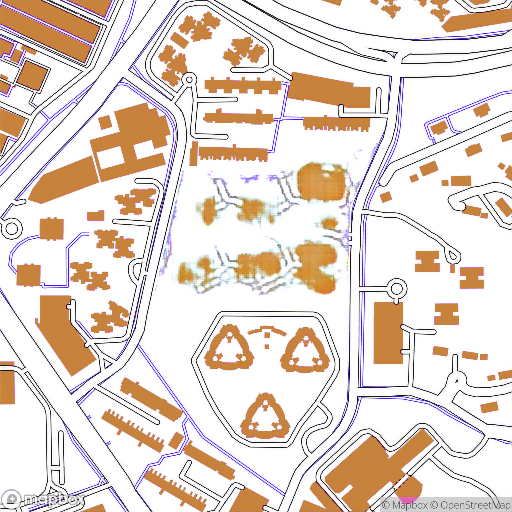
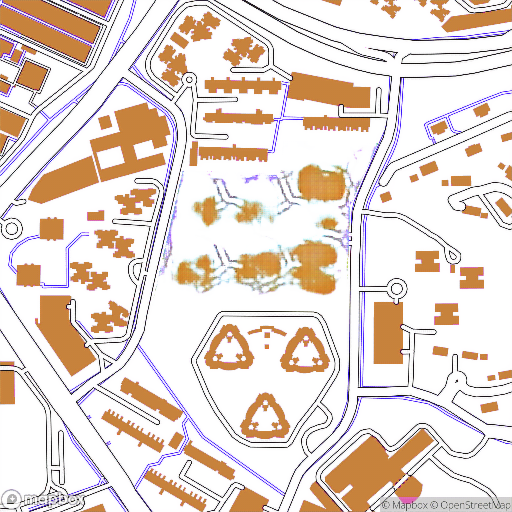
feat:2 images html site

diff --git a/Constraints/templates/index.html b/Constraints/templates/index.html
@@ -14,7 +14,7 @@
 
         h1 {
             color: #2B45A1;
-            padding-top: 130px;
+            padding-top: 30px;
             padding-bottom: 20px;
         }
 
@@ -97,7 +97,7 @@
     <form action="/submit" method="post">
         <div class="parent">
             <div class="child1">
-                <label for="postal_code">Postal code:</label>
+                <label for="postal_code">Postal code/Address:</label>
                 <input type="text" id="postal_code" name="postal_code" required>
             </div>
             <div>or</div>
@@ -129,8 +129,8 @@
     <div class="possible-site-plans">
         <h2>Possible site plans:</h2>
         <!-- Sample site plan images, replace with your own images if necessary -->
-        <img src="site_plan1.jpg" alt="Site Plan Image 1">
-        <img src="site_plan2.jpg" alt="Site Plan Image 2">
+        <img src="{{ url_for('static', filename='raw_rd1.png') }}" alt="Site Plan Image 1">
+        <img src="{{ url_for('static', filename='rec_rd1.png') }}" alt="Site Plan Image 2">
     </div>
     <button onclick="window.print()">Convert to PDF</button>
 

diff --git a/Constraints/get_gen_images.py b/Constraints/get_gen_images.py
@@ -34,23 +34,6 @@ def rd_geojson_maker(geojson, gpr):
     encoded_geojson = requests.utils.quote(geojson_str)
     return encoded_geojson
 
-# def buildings_geojson_maker(geojson):
-#     geojson_feature = {
-#         "type": "Feature",
-#         "properties": {
-#             "fill": "#00FF00",
-#             "fill-opacity": "1.0",
-#             "stroke-width" : 0,
-#         },
-#         "geometry": {
-#             "type": "Polygon",
-#             "coordinates": [geojson]
-#         }
-#     }
-#     geojson_str = json.dumps(geojson_feature)
-#     encoded_geojson = requests.utils.quote(geojson_str)
-#     return encoded_geojson
-
 def og_geojson_maker(geojson):
     geojson_feature = {
         "type": "Feature",
@@ -189,7 +172,7 @@ def create_binary_mask(arr, target_color, threshold=30):
     mask = (arr[:, :, :3] >= lower_bound) & (arr[:, :, :3] <= upper_bound)
     return np.all(mask, axis=-1)
 
-def extract_building_regions(arr, target_color, threshold=10):
+def extract_building_regions(arr, target_color, threshold=30):
     lower_bound = np.array(target_color) - threshold
     upper_bound = np.array(target_color) + threshold
     mask = (arr[:, :, :3] >= lower_bound) & (arr[:, :, :3] <= upper_bound)
@@ -253,47 +236,44 @@ def smooth_contours(contours, alpha=0.02):
     smoothed_contours = [cv2.approxPolyDP(cnt, alpha * cv2.arcLength(cnt, True), True) for cnt in contours]
     return smoothed_contours
 
-
-def extract_raw_buildings(gpr, rgb):
+def extract_raw_buildings(mask_rgb, building_rgb, mask_path, gen_model_path, model_name):
     og_path = "site.png"
-    mask_path = "rd_input.png"
-    gen_rd1_path = 'gen_rd1.png'
+    mask_path = mask_path
+    gen_model_path = gen_model_path
+    model = model_name
 
     og_image = Image.open(og_path).convert('RGB')
     masked_image = Image.open(mask_path).convert('RGB')
-    gen_rd1 = Image.open(gen_rd1_path).convert('RGB')
+    gen_image = Image.open(gen_model_path).convert('RGB')
 
     og_image = og_image.resize((512, 512))
     masked_image = masked_image.resize((512, 512))
 
     og_array = np.array(og_image)
     masked_image_array = np.array(masked_image)
-    gen_rd1_array = np.array(gen_rd1)
+    gen_image_array = np.array(gen_image)
     
     #extract buildings
-    site_mask = create_binary_mask(masked_image_array, rgb)
-    gen_rd1_array[~site_mask] = [255,255,255]
-    rd1_building_mask = extract_building_regions(gen_rd1_array, [255,10,169]) # for rd its always pink buildings
-    Image.fromarray((rd1_building_mask * 255).astype(np.uint8)).save("debug_rd1_building_mask.png")
+    site_mask = create_binary_mask(masked_image_array, mask_rgb)
+    mask_pixels = np.sum(site_mask)
+    gen_image_array[~site_mask] = [255,255,255]
+    gen_building_mask = extract_building_regions(gen_image_array, building_rgb) # for rd its always pink buildings
     # put raw buildings onto og site
     colored_paper = np.full((og_array.shape[0], og_array.shape[1], 3), [230, 228, 224], dtype=np.uint8) #light brown site
-    colored_paper[rd1_building_mask] = [220,217,214] #dark brown buildings
+    colored_paper[gen_building_mask] = [220,217,214] #dark brown buildings
     og_array[site_mask] = colored_paper[site_mask]
-    raw_gen_r1 = Image.fromarray(og_array)
-    raw_gen_r1.save("raw_r1.png")
+    raw_gen = Image.fromarray(og_array)
+    raw_gen.save(f"static\\raw_{model}.png")
 
     # get contours
-    building_mask = rd1_building_mask.copy()
+    building_mask = gen_building_mask.copy()
     building_mask = (building_mask * 255).astype(np.uint8)
-    Image.fromarray((building_mask).astype(np.uint8)).save("debug_building_mask.png")
     blurred = cv2.GaussianBlur(building_mask, (5, 5), 0)
     edges = cv2.Canny(blurred, 50, 150)
     contours, _ = cv2.findContours(edges, cv2.RETR_TREE, cv2.CHAIN_APPROX_SIMPLE)
     approximated_contours = approx_contours(contours)
-    original_approximated_contours = cv2.drawContours(building_mask.copy(), approximated_contours, -1, (255), 10)
     blank_image_for_contour = np.zeros_like(building_mask)
     approximated_contours_image = cv2.drawContours(blank_image_for_contour, approximated_contours, -1, (255), 5)
-    Image.fromarray((approximated_contours_image).astype(np.uint8)).save("debug_site_mask.png")
 
     #get rectangles
     colored_paper2 = np.full((og_array.shape[0], og_array.shape[1], 3), [230, 228, 224], dtype=np.uint8) #light brown site
@@ -308,8 +288,8 @@ def extract_raw_buildings(gpr, rgb):
         if w >= min_width and h >= min_height:
             cv2.rectangle(colored_paper2, (x, y), (x + w, y + h), rectangle_color, -1)
     og_array[site_mask] = colored_paper2[site_mask]
-    rec_gen_r1 = Image.fromarray(og_array)
-    rec_gen_r1.save("rec_r1.png")
+    rec_gen = Image.fromarray(og_array)
+    rec_gen.save(f"static\\rec_{model}.png")
 
     # smooth
     colored_paper3 = np.full((og_array.shape[0], og_array.shape[1], 3), [230, 228, 224], dtype=np.uint8)
@@ -319,27 +299,25 @@ def extract_raw_buildings(gpr, rgb):
     closed_image = cv2.morphologyEx(opened_image, cv2.MORPH_CLOSE, kernel, iterations=1)
     contours, _ = cv2.findContours(closed_image, cv2.RETR_EXTERNAL, cv2.CHAIN_APPROX_SIMPLE)
     contour_pixels = sum(cv2.contourArea(contour) for contour in contours)
-    min_area_threshold = 0.1*contour_pixels
+    min_area_threshold = 0.15*contour_pixels
     large_contours = [cnt for cnt in contours if cv2.contourArea(cnt) > min_area_threshold] #discard small contours
     smoothed_contours = smooth_contours(large_contours)
     cv2.drawContours(colored_paper3, smoothed_contours, -1, contour_colour, thickness=cv2.FILLED)
     og_array[site_mask] = colored_paper3[site_mask]
-    smooth_gen_r1 = Image.fromarray(og_array)
-    smooth_gen_r1.save("smooth_r1.png")
-
-
-    return
+    smooth_gen = Image.fromarray(og_array)
+    smooth_gen.save(f"static\\smooth_{model}.png")
+    return mask_pixels
 
 
 def main(geojson, center_coordinates, gpr):
-    #get_mapbox_image(geojson, center_coordinates, gpr)
-    #prep_buildings_model_input(gpr, "site_masked_buildings.png", "buildings_input.png")
-    #get_gen_image("rd_input.png", "buildings_input.png")
-    rd_rgb ,  building_rgb = rgb_colour(gpr)
-    extract_raw_buildings(gpr, rd_rgb)
-    return
-
-center_coordinates = (103.78378301045407, 1.30560345)
-geojson = [[103.784756, 1.3050353], [103.7847946, 1.3061424], [103.7850962, 1.3068138], [103.7840787, 1.3068373], [103.7840465, 1.3064766], [103.7830011, 1.3065207], [103.7826663, 1.3050645], [103.784756, 1.3050353]]
-tar_gpr = 1.8
-main(geojson, center_coordinates, tar_gpr)
+    get_mapbox_image(geojson, center_coordinates, gpr)
+    prep_buildings_model_input(gpr, "site_masked_buildings.png", "buildings_input.png")
+    get_gen_image("rd_input.png", "buildings_input.png")
+    rd_mask_rgb ,  buildings_building_rgb = rgb_colour(gpr)
+    print(rd_mask_rgb)
+    extract_raw_buildings(rd_mask_rgb, [255,10,169], "rd_input.png", "gen_rd1.png", "rd1")
+    mask_pixels = extract_raw_buildings([0,255,0], buildings_building_rgb, "buildings_input.png", "gen_b2.png", "b2")
+    extract_raw_buildings([0,255,0], buildings_building_rgb, "buildings_input.png", "gen_b3.png", "b3")
+    site_area = mask_pixels*1.3335
+    print(site_area)
+    return site_area

diff --git a/Constraints/max_dwelling_units.py b/Constraints/max_dwelling_units.py
@@ -8,7 +8,7 @@ def max_dwelling_units(gpr, site_area, center_coordinate):
     map2 = False
 
     # Coordinates of regions in Map 1(central area)
-    json_file_path = "C:\\Users\\phuay\\Desktop\\term7sds\\Constraints\\Map1.json"
+    json_file_path = "Map1.json"
     with open(json_file_path, "r") as json_file:
         map1_coordinates_data = json.load(json_file)
     # Loop through each set of Map 1 coordinates and check if the point is within the polygon
@@ -20,7 +20,7 @@ def max_dwelling_units(gpr, site_area, center_coordinate):
             break  # If it's inside one of the polygons, break the loop
 
     # Coordinates of regions in Map 2
-    json_file_path = "C:\\Users\\phuay\\Desktop\\term7sds\\Constraints\\Map2.json"
+    json_file_path = "Map2.json"
     with open(json_file_path, "r") as json_file:
         map2_coordinates_data = json.load(json_file)
     # Loop through each set of Map 2 coordinates and check if the point is within the polygon

diff --git a/Constraints/app.py b/Constraints/app.py
@@ -3,6 +3,7 @@ import location
 import max_dwelling_units
 import road_setback
 import max_gfa
+import get_gen_images
 
 app = Flask(__name__)
 
@@ -18,9 +19,11 @@ def submit():
 
     address = postal_code or boundary_coordinates
     gpr = float(target_gpr)
-    site_area = 20800 #this hardcoded
 
-    osm_id, center_coordinates, location_coordinates = location.main(address)
+    osm_id, center_coordinates, location_coordinates, geojson = location.main(address)
+    
+    site_area = get_gen_images.main(geojson, center_coordinates, gpr)
+
     maximum_gfa = max_gfa.max_gfa_excluding_rrdr(gpr, site_area)
     roads_setback = road_setback.main(location_coordinates)
     maximum_dwelling_units = max_dwelling_units.max_dwelling_units(gpr, site_area, center_coordinates)

diff --git a/Constraints/main_evaluate.py b/Constraints/main_evaluate.py
@@ -3,14 +3,15 @@ import location
 import max_dwelling_units
 import road_setback
 import max_gfa
+import get_gen_images
 
 address = "1 Canberra Singapore"  # Format: postal code,  country
 gpr = 2.5
-site_area = 20800
 # expected du=561(/85), roadsetback: ['', 'CAT3', 'Building â‰¤ 5 storeys\n7.5m (3m)Building â‰¥ 6 storeys\n10m (3m)']
 
-osm_id, center_coordinates, location = location.main(address)
-
+osm_id, center_coordinates, location, geojson = location.main(address)
+site_pixels = get_gen_images.main(geojson, center_coordinates, gpr)
+site_area = site_pixels * 1.3335
 print(f"{address} \nTarget GPR: {gpr}, Site area: {site_area} msq")
 max_gfa = max_gfa.max_gfa_excluding_rrdr(gpr, site_area)
 print(max_gfa)
